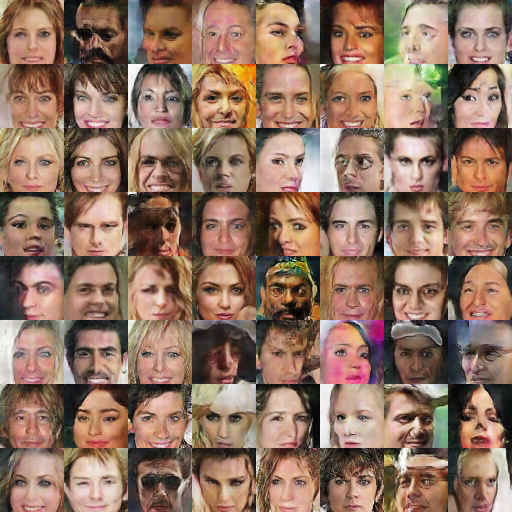
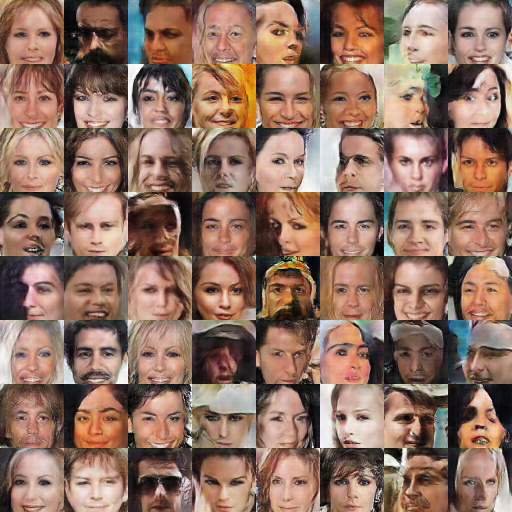
update images

diff --git a/README.md b/README.md
@@ -51,7 +51,7 @@ After 1st epoch:
 
 ![result2](assets/result_16_01_04.png)
 
-After 5th epoch:
+After 6th epoch:
 
 ![result3](assets/result_16_01_04_.png)
 
